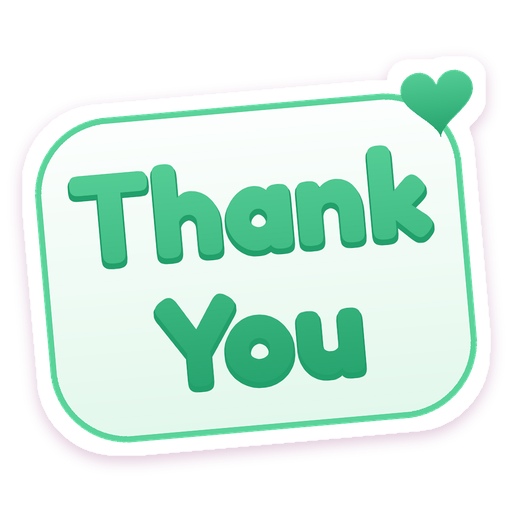
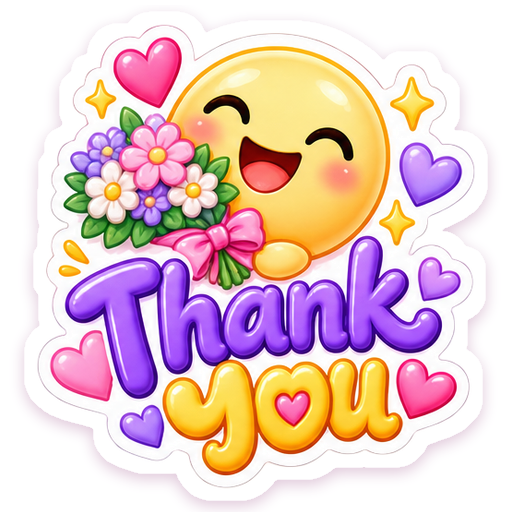
Rename Feelings & Emotions to Emotions and add the owner's 16 stickers
10 emotion stars and 6 greeting stickers (I Love You, I Miss You, Thank You,
Good Morning, Good Night, Be Happy). The generated Thank You, Miss You and
Mood Bubbles stickers are replaced; Emotions now has 29 stickers.

Claude-Session: https://claude.ai/code/session_01HFDEQ91mwXQ77VBhcg7bMb

diff --git a/Tools/generate_assets.py b/Tools/generate_assets.py
@@ -275,11 +275,38 @@ PACKS = [
         ],
     },
     {
-        "id": "feelings", "title": "Feelings & Emotions", "subtitle": "Say how you feel",
+        "id": "feelings", "title": "Emotions", "subtitle": "Say how you feel",
         "tint": "#34B57E", "top": "#E0F7EA", "bottom": "#F3FCF6", "ink": ["#5AD39A", "#22A06B"],
         "tray": "Smiling face with smiling eyes",
         "stickers": [
-            art(BANNER_BOXES["feelings"], "😊 😢", "Mood Bubbles", "mood feelings emotions"),
+            png("Emotions/sheet-1.png", "😉 💕", "Winking Star", "wink happy star cute", count=10, index=0,
+                description="A pink star with a bow winking happily among hearts"),
+            png("Emotions/sheet-1.png", "😊 ⭐", "Happy Star", "happy smile joy star", count=10, index=1,
+                description="A yellow star smiling with closed happy eyes"),
+            png("Emotions/sheet-1.png", "😢 💧", "Crying Star", "sad cry tears star", count=10, index=2,
+                description="A blue star crying with big teary eyes"),
+            png("Emotions/sheet-1.png", "😠 💢", "Angry Star", "angry mad grumpy star", count=10, index=3,
+                description="A purple star frowning with an angry mark"),
+            png("Emotions/sheet-1.png", "😴 💤", "Sleepy Star", "sleepy sleep tired night star", count=10, index=4,
+                description="A green star asleep in a striped night cap"),
+            png("Emotions/sheet-1.png", "😜 ✨", "Playful Star", "playful wink fun star", count=10, index=5,
+                description="An orange star winking playfully with little stars"),
+            png("Emotions/sheet-1.png", "😍 💕", "Love Struck Star", "love heart eyes crush star", count=10, index=6,
+                description="A pink star with heart eyes surrounded by hearts"),
+            png("Emotions/sheet-1.png", "😮 ⭐", "Surprised Star", "surprised shocked wow star", count=10, index=7,
+                description="A purple star with wide surprised eyes"),
+            png("Emotions/sheet-1.png", "😂 💦", "Laughing Star", "laughing lol haha funny star", count=10, index=8,
+                description="A blue star laughing so hard it cries"),
+            png("Emotions/sheet-1.png", "💔 😢", "Heartbroken Star", "heartbroken sad broken heart star", count=10,
+                index=9, description="A yellow star crying next to a broken heart"),
+            png("Emotions/sheet-2.png", "❤ 😊", "I Love You", "i love you love", count=6, index=0, label="I Love You"),
+            png("Emotions/sheet-2.png", "🥺 💭", "I Miss You", "i miss you miss", count=6, index=1, label="I Miss You"),
+            png("Emotions/sheet-2.png", "🙏 💐", "Thank You", "thank you thanks", count=6, index=2, label="Thank You"),
+            png("Emotions/sheet-2.png", "☀ 😊", "Good Morning", "good morning morning sun", count=6, index=3,
+                label="Good Morning"),
+            png("Emotions/sheet-2.png", "🌙 😴", "Good Night", "good night night sleep moon", count=6, index=4,
+                label="Good Night"),
+            png("Emotions/sheet-2.png", "😄 ✌", "Be Happy", "be happy smile", count=6, index=5, label="Be Happy"),
             emoji("Smiling face with smiling eyes", "😊", "Happy", "happy smile"),
             emoji("Smiling face with heart-eyes", "😍", "Heart Eyes", "love heart eyes crush"),
             emoji("Face with tears of joy", "😂", "LOL", "lol laugh funny haha"),
@@ -292,9 +319,7 @@ PACKS = [
             emoji("Relieved face", "😌", "Relieved", "calm relieved peaceful"),
             emoji("Smiling face with halo", "😇", "Angel", "angel innocent"),
             emoji("Smiling face with sunglasses", "😎", "Cool", "cool sunglasses"),
-            text("Thank\nYou", "🙏 😊", "Thank You", "thank you thanks"),
             text("Sorry", "🥺", "Sorry", "sorry apology"),
-            text("Miss\nYou", "🥺 💖", "Miss You", "miss you"),
         ],
     },
     {

diff --git a/README.md b/README.md
@@ -1,7 +1,7 @@
 # Stickers 💖
 
 **Express more with cute stickers.** An iOS app (SwiftUI) with 6 sticker categories and
-122 stickers. You can copy, paste, drag or share any sticker into WhatsApp, iMessage
+135 stickers. You can copy, paste, drag or share any sticker into WhatsApp, iMessage
 and other chat apps. The project also includes an iMessage sticker app and an
 "Add to WhatsApp" import for each category.
 
@@ -11,7 +11,7 @@ and other chat apps. The project also includes an iMessage sticker app and an
 | Friendship | 21 (your own artwork) |
 | Sisters | 21 (your own artwork) |
 | Family | 28 (18 of them your own artwork) |
-| Feelings & Emotions | 16 |
+| Emotions | 29 (16 of them your own artwork) |
 | Self-Love & Self-Care | 16 |
 
 ---
@@ -125,4 +125,4 @@ WhatsApp warns that Xcode's PNG optimization can break its size limits.
   - Your bundle ID must not contain `WA.WAStickersThirdParty`.
 - **Artwork credits** are in [THIRD_PARTY_NOTICES.md](THIRD_PARTY_NOTICES.md):
   Microsoft Fluent Emoji (MIT) and the Fredoka font (OFL). The character
-  pictures, the 20 Love, 21 Friendship, 21 Sisters and 18 Family stickers come from your own designs.
+  pictures, the 20 Love, 21 Friendship, 21 Sisters, 18 Family and 16 Emotions stickers come from your own designs.

diff --git a/THIRD_PARTY_NOTICES.md b/THIRD_PARTY_NOTICES.md
@@ -1,7 +1,7 @@
 # Third-party notices
 
 The 20 Love stickers (`Design/Love-sheet-1.png`, `Design/Love-sheet-2.png`), the 21 Friendship
-stickers (`Design/Friendship/`), the 21 Sisters stickers (`Design/Sisters/`), the 18 Family stickers (`Design/Family/`) and the
+stickers (`Design/Friendship/`), the 21 Sisters stickers (`Design/Sisters/`), the 18 Family stickers (`Design/Family/`), the 16 Emotions stickers (`Design/Emotions/`) and the
 landing page and icon artwork were supplied by the app owner.
 
 ## Fluent Emoji (Microsoft)
